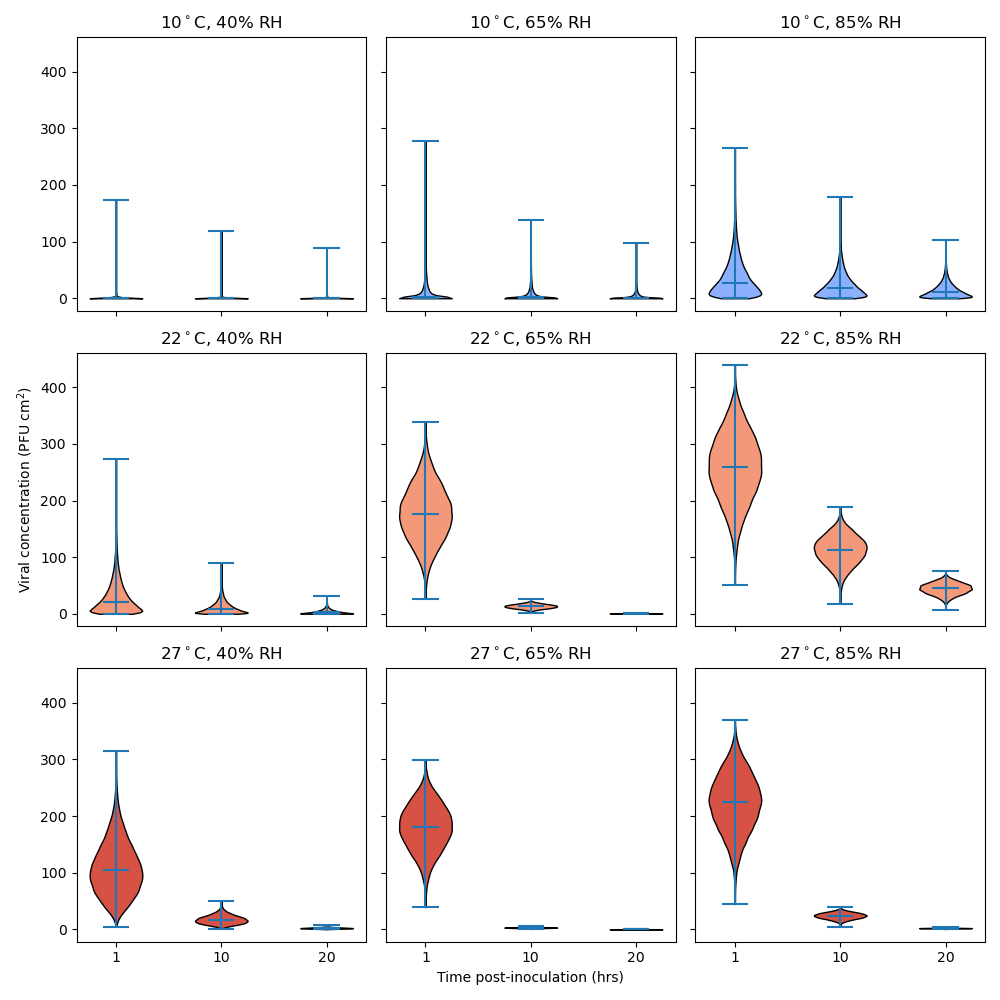
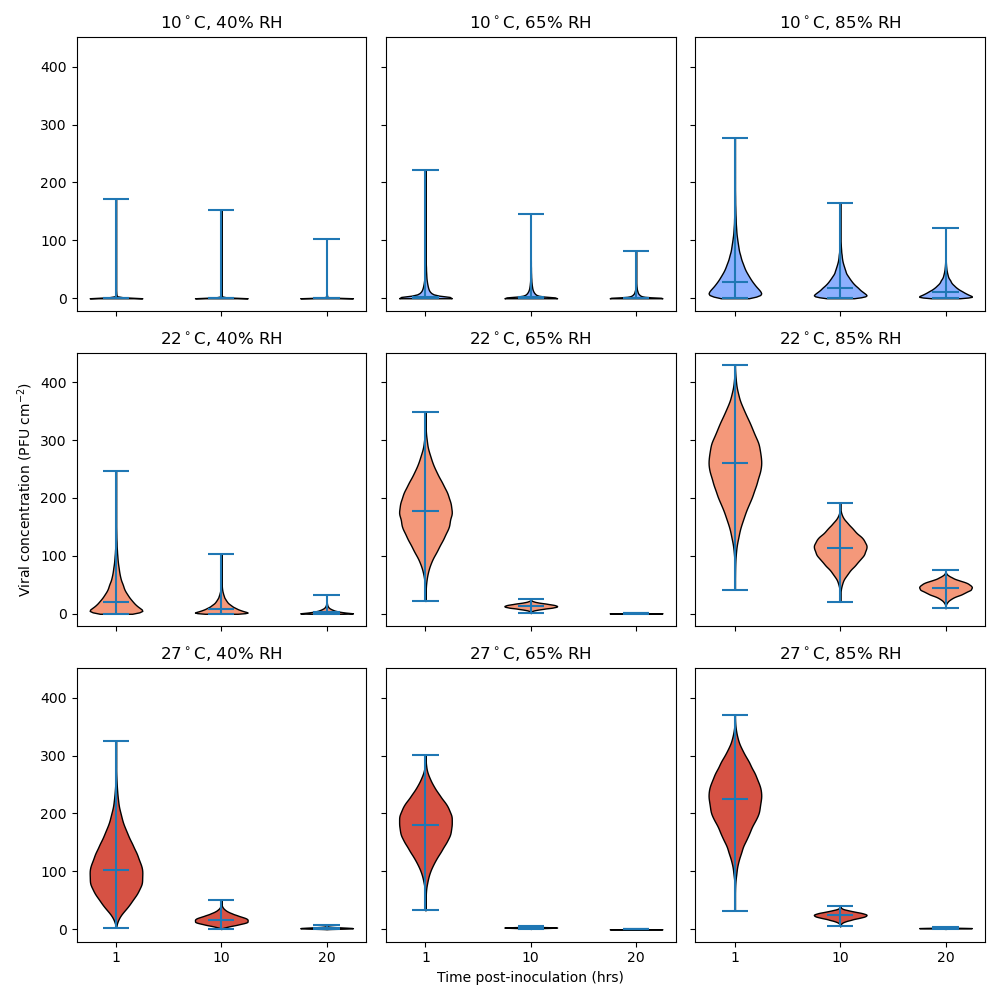
typo in QMRA.png / morris.py fixed

diff --git a/misc/morris.py b/misc/morris.py
@@ -127,6 +127,6 @@ for n, (i,j) in zip(range(9), plot_indices):
 ax[0, 0].set_xticks([1, 2, 3])
 ax[0, 0].set_xticklabels(['1', '10', '20'])
 ax[2, 1].set_xlabel('Time post-inoculation (hrs)')
-ax[1, 0].set_ylabel(r'Viral concentration (PFU cm$^2$)')
+ax[1, 0].set_ylabel(r'Viral concentration (PFU cm$^{-2}$)')
 fig.tight_layout()
 fig.savefig('QMRA')
